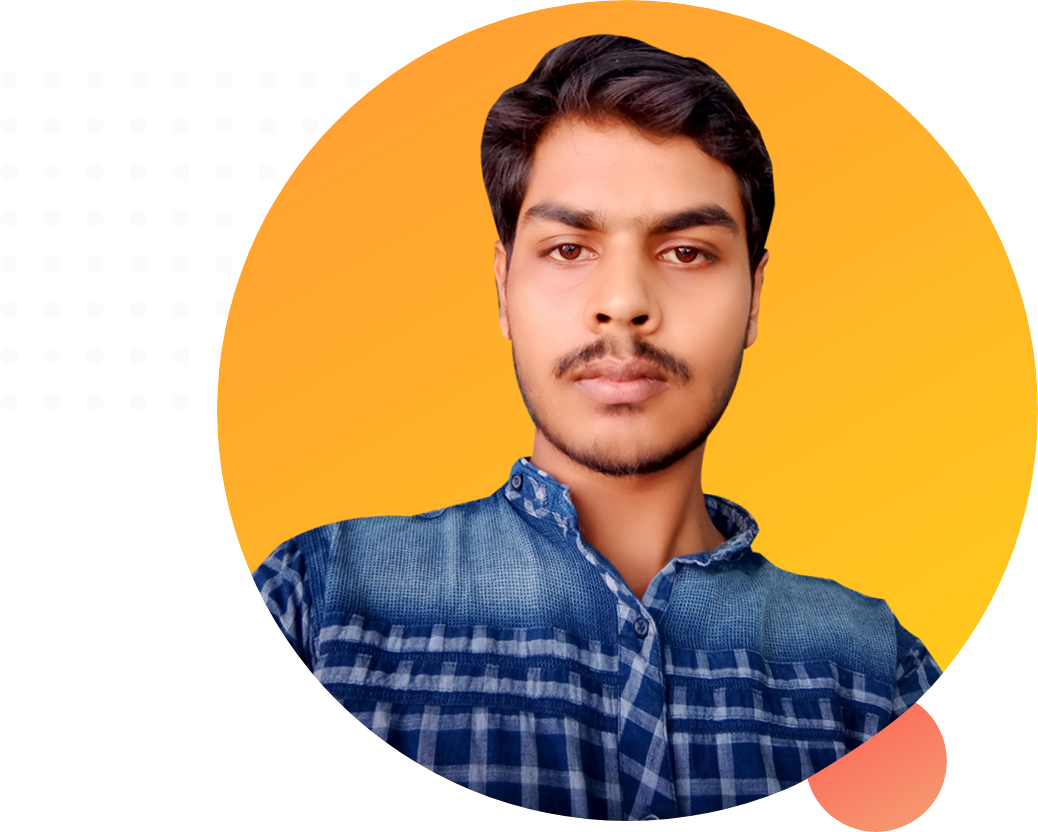
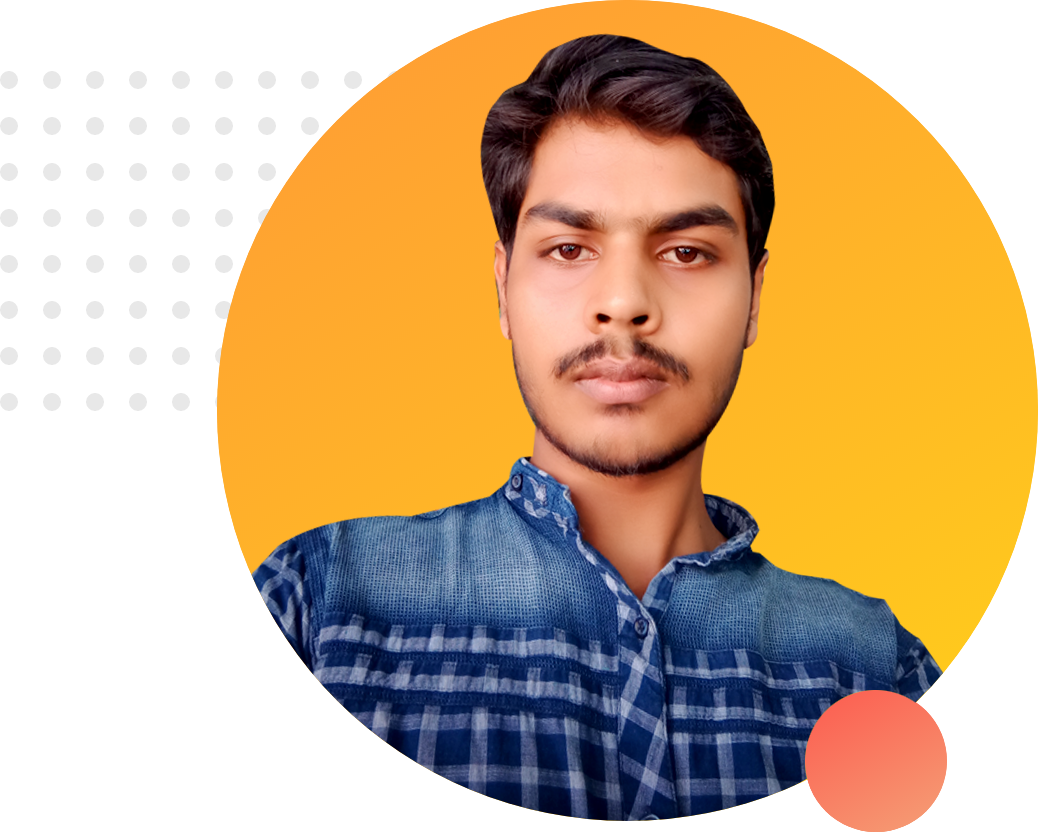
all add

Changed region(s): [[0.7707, 0.8125, 0.894, 0.9375]]

diff --git a/index.html b/index.html
@@ -11,17 +11,20 @@
 
 </head>
 <body>
-    <section>
-        <div class="half-width">
-            <h1>Welcome to</h1>
-            <h1><span class="name-heilight">Khorsed</span> Webdeveloper</h1>
-            <h3>World Class Webdeveloper</h3>
-            <p>Welcome to my digital space! I am a passionate and innovative web developer dedicated to crafting immersive and functional online experiences. With a keen eye for detail and a love for clean, efficient code, I bring ideas to life through the art of web development.</p>
-        </div>
-
-        <div class="half-width">
-            <img src="images/Khorsed.png" alt="">
-        </div>
+    <section class="top-banner">
+        <section>
+            <div class="half-width">
+                <h1>Welcome to</h1>
+                <h1><span class="name-heilight">Khorsed</span> Webdeveloper</h1>
+                <h3>World Class Webdeveloper</h3>
+                <p>Welcome to my digital space! I am a passionate and innovative web developer dedicated to crafting immersive and functional online experiences. With a keen eye for detail and a love for clean, efficient code, I bring ideas to life through the art of web development.</p>
+                <a target="_blank" href="https://www.linkedin.com/in/khorsed-rana/">Hire Me</a>
+            </div>
+    
+            <div class="half-width">
+                <img src="images/Khorsed.png" alt="">
+            </div>
+        </section>
     </section>
     
 

diff --git a/style.css b/style.css
@@ -1,6 +1,8 @@
 body{
     font-family: 'Montserrat', sans-serif;
     font-family: 'Poppins', sans-serif;
+    margin:0;
+    padding:0;
 }
 h1{
     font-size: 50px;
@@ -10,11 +12,18 @@ h1{
 }
 .half-width{
     width:40%;
-    float:left;
+    float: left;
     margin-left: 5%;
     padding-left: 2%;
 }
 .half-width img{
     width:100%;
 
+}
+.top-banner{
+    background-image: url(images/developer-portfolio/top-banner.png);
+    background-repeat: no-repeat;
+}
+section{
+    height: 500px;
 }
